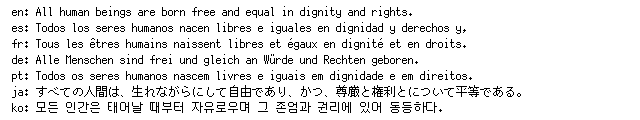
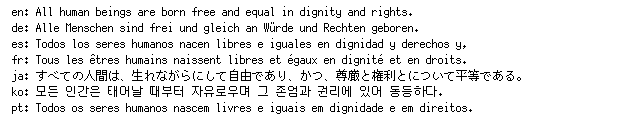
example: Sort the texts in alphabetical order

diff --git a/example/main.go b/example/main.go
@@ -43,13 +43,15 @@ func run() error {
 	)
 
 	width := 640
+
+	// https://en.wikisource.org/wiki/Universal_Declaration_of_Human_Rights
 	text := `en: All human beings are born free and equal in dignity and rights.
+de: Alle Menschen sind frei und gleich an Würde und Rechten geboren.
 es: Todos los seres humanos nacen libres e iguales en dignidad y derechos y,
 fr: Tous les êtres humains naissent libres et égaux en dignité et en droits.
-de: Alle Menschen sind frei und gleich an Würde und Rechten geboren.
-pt: Todos os seres humanos nascem livres e iguais em dignidade e em direitos.
 ja: すべての人間は、生れながらにして自由であり、かつ、尊厳と権利とについて平等である。
 ko: 모든 인간은 태어날 때부터 자유로우며 그 존엄과 권리에 있어 동등하다.
+pt: Todos os seres humanos nascem livres e iguais em dignidade e em direitos.
 `
 	height := 16 * len(strings.Split(strings.TrimSpace(text), "\n")) + 8
 	if *flagTest {
